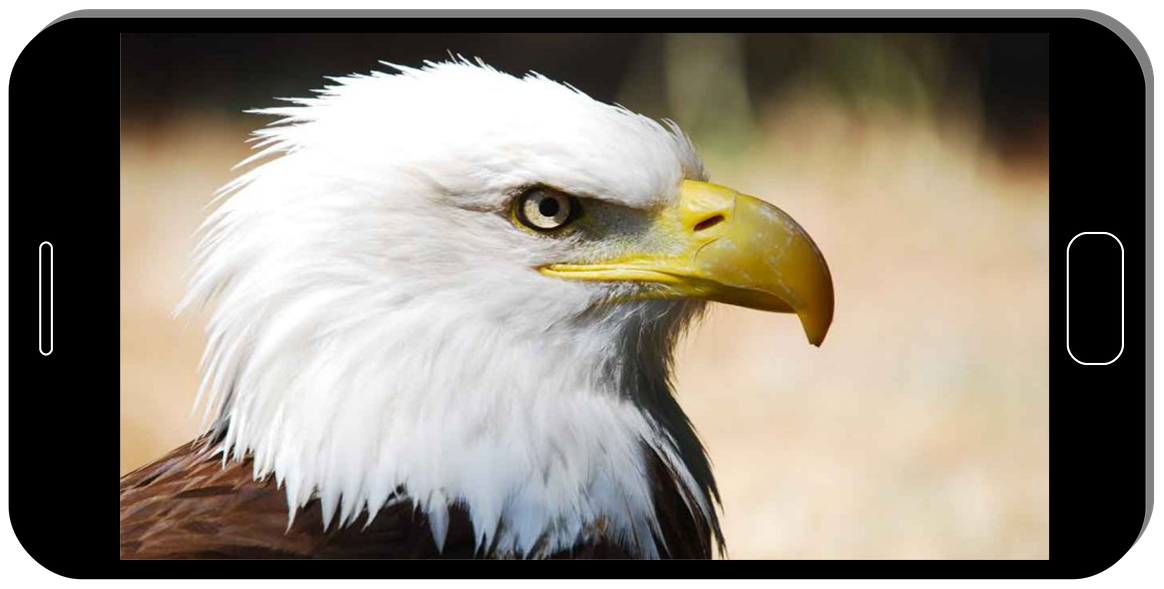
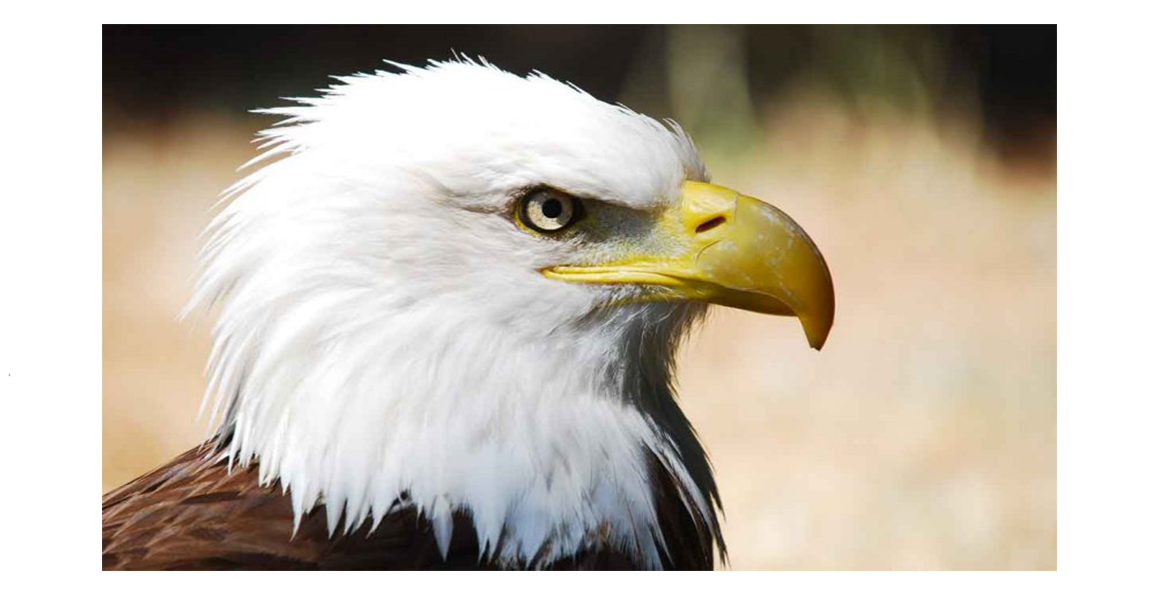
fix home gallery image

diff --git a/src/Frontend/component/Home.tsx b/src/Frontend/component/Home.tsx
@@ -11,6 +11,8 @@ function Home() {
   const [upload, setUploading] = useState(false);
   const [uploadeffected, setuploadeffected] = useState(false);
   const [uploaderror, setuploaderror] = useState(false);
+  const [photostart, setPhotoStart] = useState('');
+  const [photostartboolean, setPhotoStartBoolean] = useState(true);
   const [photo, setPhoto] = useState('');
   const [selectedFile, setSelectedFile] = useState<File | null>(null);
   const [message, setMessage] = useState('');
@@ -18,7 +20,7 @@ function Home() {
 
 
   useEffect(() => {
-    setPhoto(smartphone);
+    setPhotoStart(smartphone);
   }, []);
 
   // const uploadPhoto = () => {
@@ -48,6 +50,7 @@ function Home() {
     console.log('New image:', newImage);
     setPhoto(newImage);
     setuploadeffected(false);
+    setPhotoStartBoolean(false);
   };
 
   const uploadPhoto = async () => {
@@ -65,6 +68,7 @@ function Home() {
     setMessage('Uploading...');
     console.log('Uploading photo:', image.name);
     setPhoto(photo);
+    setPhotoStartBoolean(false);
 
     const formData = new FormData(); // Collect the data to send to the server
     formData.append('picture', image);
@@ -108,12 +112,14 @@ function Home() {
   };
 
   const deletePhoto = () => {
-    setPhoto(smartphone);
+    setPhoto('');
     setMessage('');
+    setPhotoStartBoolean(true);
   };
 
   const takeNewPhoto = () => {
-    setPhoto(smartphone);
+    setPhoto('');
+    setPhotoStartBoolean(true);
     setMessage('');
     setUploading(false);
     setuploaderror(false);
@@ -125,13 +131,17 @@ function Home() {
       <div className="App">
         <header className="App-header">
 
-          <h1>Create your NFT Photo NFT an a Snap</h1>
-          <p>This is the homepage of the website</p>
+          <h1>Create your NFT Photo</h1>
+          <p>Solsnap</p>
 
           <div id="upload-photo">
-            <img src={photo} width="650" height="350" />
+
+            <div className="containerPhoto">
+              <img src={photostart} className="image1" />
+              <img src={photo} className="image2" />
+            </div>
             <br />
-            {photo == smartphone && (
+            {photostartboolean && (
               <>
                 {/* Photo is located in img folder */}
                 {/*                 <img src={photo} alt="Uploaded photo" width="650" height="350" />
@@ -150,7 +160,7 @@ function Home() {
 
             {message && <p>{message}</p>}
 
-            {photo != smartphone && (
+            {!photostartboolean && (
               <>
                 {/* Photo is located in img folder */}
                 {/*                 <img src={photo} alt="Uploaded photo" width="650" height="350" />

diff --git a/src/Frontend/css/Style.css b/src/Frontend/css/Style.css
@@ -65,3 +65,29 @@
   color: white;
   text-decoration: none; 
 }
+
+
+.containerPhoto {
+  position: relative;
+  width: 650px;
+  height: 350px;
+}
+.image1 {
+  position: absolute;
+  top: 0;
+  left: 0;
+  width: 650px;
+  height: 350px;
+  z-index: 1; /* Immagine sopra */
+}
+.image2 {
+  position: absolute;
+  top: 0;
+  left: 0;
+  width: 650px;
+  height: 350px;
+  z-index: 0; /* Immagine sotto */
+}
+.image2[src=""] {
+  display: none; /* Nasconde le immagini con src vuoto */
+}
